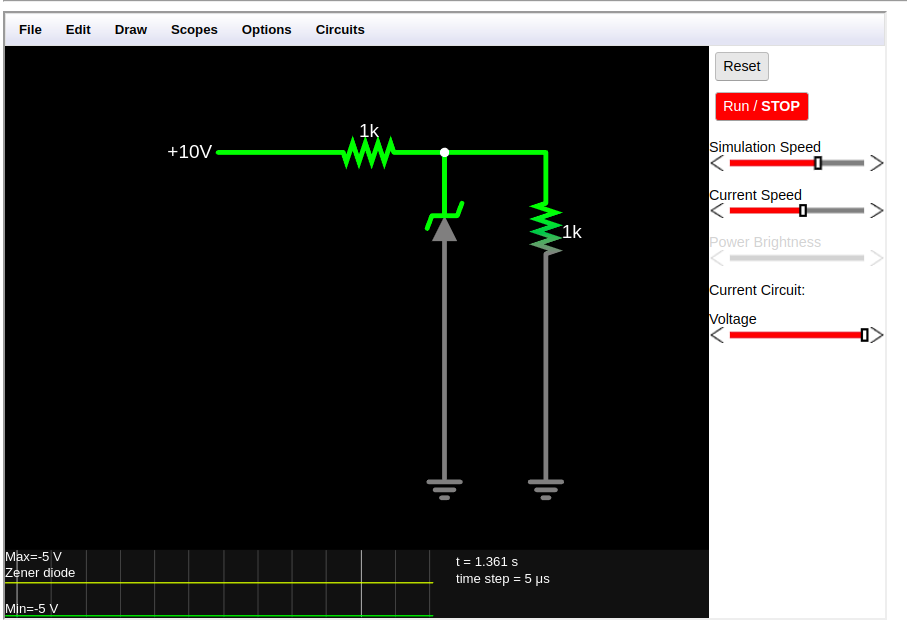
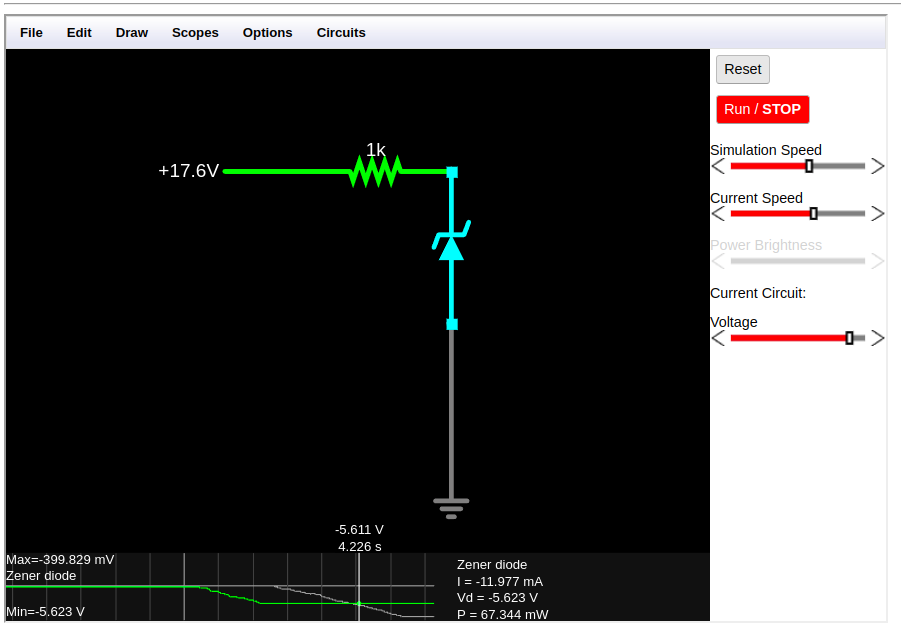
Test refactor

Changed region(s): [[0.0, 0.0, 1.0, 1.0], [0.1865, 0.1818, 0.6526, 0.8182]]

diff --git a/electPowSup/lab_1/README.md b/electPowSup/lab_1/README.md
@@ -12,6 +12,7 @@
     - Характерен для слаболегированных переходов ($U_{\text ст} > 8 B$ ).
     - Электроны, ускоряемые полем, ионизируют атомы, вызывая лавинное умножение носителей.
     - Напряжение пробоя:
+
     $$ U_{\text пр} = E_{\text кр} \cdot W$$ 
 
 Схема стабилизатора включает:
@@ -20,14 +21,17 @@
 - Нагрузка ($R_{\text н}$) — подключается параллельно стабилитрону.
 
 Сопротивление $R_{\text б}$ рассчитывается по формуле:
+
 $$R_{\text б} = \frac{U_{\text вх} - U_{\text ст}}{I_{\text ст} + I_{\text н}}$$
 
-![[Photo 2]](pictures/2.png)
+![Photo 1](pictures/1.png)
 
 Коэффициент стабилизации $K_{\text ст}$:
+
 $$ K_{\text ст} = \frac{\Delta U_{\text вх}/\Delta U_{\text вх}}{\Delta U_{\text вых}/\Delta U_{\text вых}}$$
 
 КПД (${\eta}$):
+
 $${\eta} = \frac{P_{\text вых}}{P_{\text вх}} \times 100 \% $$
 
 Выходное сопротивление ($R_{\text вых}$):
@@ -38,7 +42,7 @@ $$R_{\text вых} = \frac{\Delta U_{\text вых}}{\Delta I_н} \approx R_{\tex
 
 При измерении ВАХ нагрузка ($R_{\text н}$) должна быть отключена.
 
-#### Для прямого включения:
+#### Для обратного подключения стабилитрона:
 Берем источник с диапазоном от $0$ до $10B$.
 
 $R_{\text б } = 1кОм$
@@ -67,35 +71,45 @@ $R_{\text б } = 1кОм$
 |      9.5       |   -3.906 mA    |
 |       10       |   -4.403 mA    |
 
+На рисунке видно, что пробой произошел при напряжении в $5.6В$
+![Photo 2](pictures/2.png)
+
+График зависимости тока от напряжения
+![Photo 3](pictures/3.png)
+
+**Характер ВАХ**:
+- При напряжении V < 5.5 В ток крайне мал (порядка -171 нА), что соответствует закрытому состоянию стабилитрона в обратном включении.
+- При V ≥ 5.5 В ток резко возрастает (до -4.4 мА), что соответствует зоне пробоя стабилитрона.
+- Резкий рост тока начинается при V ≈ 5.5 В, что близко к типичному напряжению стабилизации для стабилитронов (например, 5.6 В для КС156).
+
+#### Для прямого подключения стабилитрона:
+Берем источник с диапазоном от $0$ до $20B$.
+
+$R_{\text б } = 1кОм$
 
 
-<!-- Измеренные данные:
+| $U_{\text ст}$ | $I_{\text ст}$ |
+| :------------: | :------------: |
+|       0        |       0        |
+|       1        |   597.63 μA    |
+|       2        |    1.529 mA    |
+|       3        |    2.504 mA    |
+|       4        |    3.487 mA    |
+|       5        |    4.474 mA    |
+|       6        |    5.464 mA    |
+|       7        |    6.455 mA    |
+|       8        |    7.448 mA    |
+|       9        |    8.441 mA    |
+|       10       |    9.435 mA    |
+|       11       |    10.43 mA    |
+|       12       |   11.425 mA    |
+|       13       |   12.421 mA    |
+|       14       |   13.417 mA    |
+|       15       |   14.413 mA    |
+|       16       |    15.41 mA    |
+|       17       |   16.407 mA    |
+|       18       |   17.404 mA    |
+|       19       |   18.401 mA    |
+|       20       |   19.398 mA    |
+<!-- $$ R_{\text{дифф}} = \frac{\Delta U}{\Delta I} = \frac{U_2 - U_1}{I_2 - I_1} = 46 \Omega $$ -->
 
-| V   | I       | V_d     | 
-| --- | ------- | ------- |
-| 0   | 0       | 0       |
-| 0.1 | -146 nA | -99 mV  |
-| 0.2 | -167 nA | -199 mV |
-| 0.5 | -171 nA | -499    |
-| 1   | -171 nA | -999 mV |
-| 1.3 | -171 nA | -1.3 V  |
-| 2   | -171 nA | -2 V    |
-| 3   | -171 nA | -3 V    |
-| 4.5 | -171 nA | -4,5 V  |
-| 5.1 | -171 nA | -5.1 V  |
-| 5.2 | -172 nA | -5.2 V  |
-| 5.3 | -216 nA | -5.3    |
-| 5.5 | -2.2 μA | -5.39   |
-| 5.6 | -100 μA | -5.5    |
-| 5.7 | -185 μA | -5.5    |
-| 5.7 | -275 μA | -5.5    |
-| 7   | -1.4 mA | -5.5    |
-| 8   | -2.4 mA | -5.6    |
-| 9   | -3.4 mA | -5.6    |
-| 10  | -4.4 mA | -5.6    |
-
-![Photo 1](pictures/1.png)
-
-$$ R_{\text{дифф}} = \frac{\Delta U}{\Delta I} = \frac{U_2 - U_1}{I_2 - I_1} = 46 \Omega $$
-
- -->
